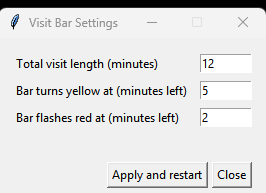
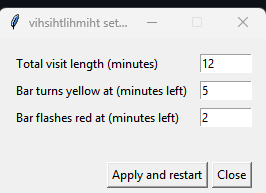
Rename app to vihsihtlihmiht, new tagline, manual release trigger

Changed region(s): [[0.0902, 0.0933, 0.4812, 0.1554]]

diff --git a/docs/index.html b/docs/index.html
@@ -3,7 +3,7 @@
 <head>
 <meta charset="utf-8">
 <meta name="viewport" content="width=device-width, initial-scale=1">
-<title>Visit Bar — a hairline timer for medical visits</title>
+<title>vihsihtlihmiht — a hairline timer for medical visits</title>
 <meta name="description" content="A 0.5 mm tall timer bar pinned to the top of your screen. Green, yellow, flashing red — with a built-in stopwatch. Free for Windows.">
 <style>
   :root {
@@ -37,7 +37,7 @@
     background: linear-gradient(90deg, var(--green) 55%, #1c2128 55%);
   }
   h1 { font-size: 3rem; margin: 0 0 8px; letter-spacing: -1px; }
-  .tagline { color: var(--muted); font-size: 1.2rem; max-width: 560px; margin: 0 auto 32px; }
+  .tagline { color: var(--muted); font-size: 1.15rem; max-width: 620px; margin: 0 auto 32px; font-style: italic; }
   .actions { display: flex; gap: 14px; justify-content: center; flex-wrap: wrap; }
   .btn {
     display: inline-block; padding: 13px 28px; border-radius: 8px;
@@ -82,10 +82,10 @@
 
 <header>
   <div class="bar-demo"></div>
-  <h1>Visit Bar</h1>
-  <p class="tagline">A hairline timer that lives along the very top edge of your screen — built for medical visits, useful for any timed meeting.</p>
+  <h1>vihsihtlihmiht</h1>
+  <p class="tagline">&ldquo;You have 15 minutes&mdash;to establish rapport, do the med rec, examine the patient, listen to your preceptor&rsquo;s stories, and place your orders. Here, take this.&rdquo;</p>
   <div class="actions">
-    <a class="btn btn-primary" href="https://github.com/robbie-med/vihsihtlihmiht/releases/latest/download/visit-bar.exe">Download for Windows</a>
+    <a class="btn btn-primary" href="https://github.com/robbie-med/vihsihtlihmiht/releases/latest/download/vihsihtlihmiht.exe">Download for Windows</a>
     <a class="btn btn-ghost" href="https://github.com/robbie-med/vihsihtlihmiht">View on GitHub</a>
   </div>
 </header>
@@ -118,15 +118,15 @@
   <section>
     <h2>See it</h2>
     <figure>
-      <img src="bar-green.png" alt="The visit bar filling green across the top of the screen">
+      <img src="bar-green.png" alt="The vihsihtlihmiht bar filling green across the top of the screen">
       <figcaption>Green — filling up, plenty of time left.</figcaption>
     </figure>
     <figure>
-      <img src="bar-yellow.png" alt="The visit bar filled yellow">
+      <img src="bar-yellow.png" alt="The vihsihtlihmiht bar filled yellow">
       <figcaption>Yellow — 5 minutes or less remaining.</figcaption>
     </figure>
     <figure>
-      <img src="bar-red.png" alt="The visit bar flashing red across the full width">
+      <img src="bar-red.png" alt="The vihsihtlihmiht bar flashing red across the full width">
       <figcaption>Red — 2 minutes or less. It flashes until you end the visit.</figcaption>
     </figure>
     <figure class="stopwatch">
@@ -134,7 +134,7 @@
       <figcaption>The stopwatch: elapsed time, with remaining time underneath.</figcaption>
     </figure>
     <figure class="settings">
-      <img src="settings.png" alt="Visit Bar settings window">
+      <img src="settings.png" alt="vihsihtlihmiht settings window">
       <figcaption>Right-click the bar for settings.</figcaption>
     </figure>
   </section>

diff --git a/visit_bar.py b/visit_bar.py
@@ -76,7 +76,7 @@ class APPBARDATA(ctypes.Structure):
 
 def config_path():
     base = os.environ.get("APPDATA") or os.path.expanduser("~")
-    return os.path.join(base, "visit-bar", "settings.json")
+    return os.path.join(base, "vihsihtlihmiht", "settings.json")
 
 
 def load_settings():
@@ -186,7 +186,7 @@ class VisitBar:
 
         win = tk.Toplevel(self.root)
         self.settings_window = win
-        win.title("Visit Bar Settings")
+        win.title("vihsihtlihmiht settings")
         win.attributes("-topmost", True)
         win.resizable(False, False)
         win.configure(padx=14, pady=12)

diff --git a/README.md b/README.md
@@ -1,4 +1,6 @@
-# Visit Bar
+# vihsihtlihmiht
+
+> “You have 15 minutes—to establish rapport, do the med rec, examine the patient, listen to your preceptor’s stories, and place your orders. Here, take this.”
 
 A tiny timer bar for medical visits (or any timed meeting) that lives along the
 very top edge of your screen.
@@ -39,13 +41,13 @@ Settings (right-click the bar):
 
 ## Download (Windows)
 
-Grab `visit-bar.exe` from the
+Grab `vihsihtlihmiht.exe` from the
 [Releases](../../releases) page and double-click it. No installation, no Python
 required — it runs a 12-minute visit by default.
 
 To time a different length, create a shortcut to the exe, open its
 **Properties**, and append the number of minutes to the *Target* field, e.g.
-`... visit-bar.exe 20` — or just right-click the bar and use the settings.
+`... vihsihtlihmiht.exe 20` — or just right-click the bar and use the settings.
 
 ## Controls
 
@@ -65,7 +67,7 @@ Right-click the bar to open the settings window:
 - **Bar turns yellow at** (minutes left) — default 5
 - **Bar flashes red at** (minutes left) — default 2
 
-*Apply and restart* saves the settings to `%APPDATA%\visit-bar\settings.json`
+*Apply and restart* saves the settings to `%APPDATA%\vihsihtlihmiht\settings.json`
 and restarts the timer with the new values.
 
 ## Run from source
